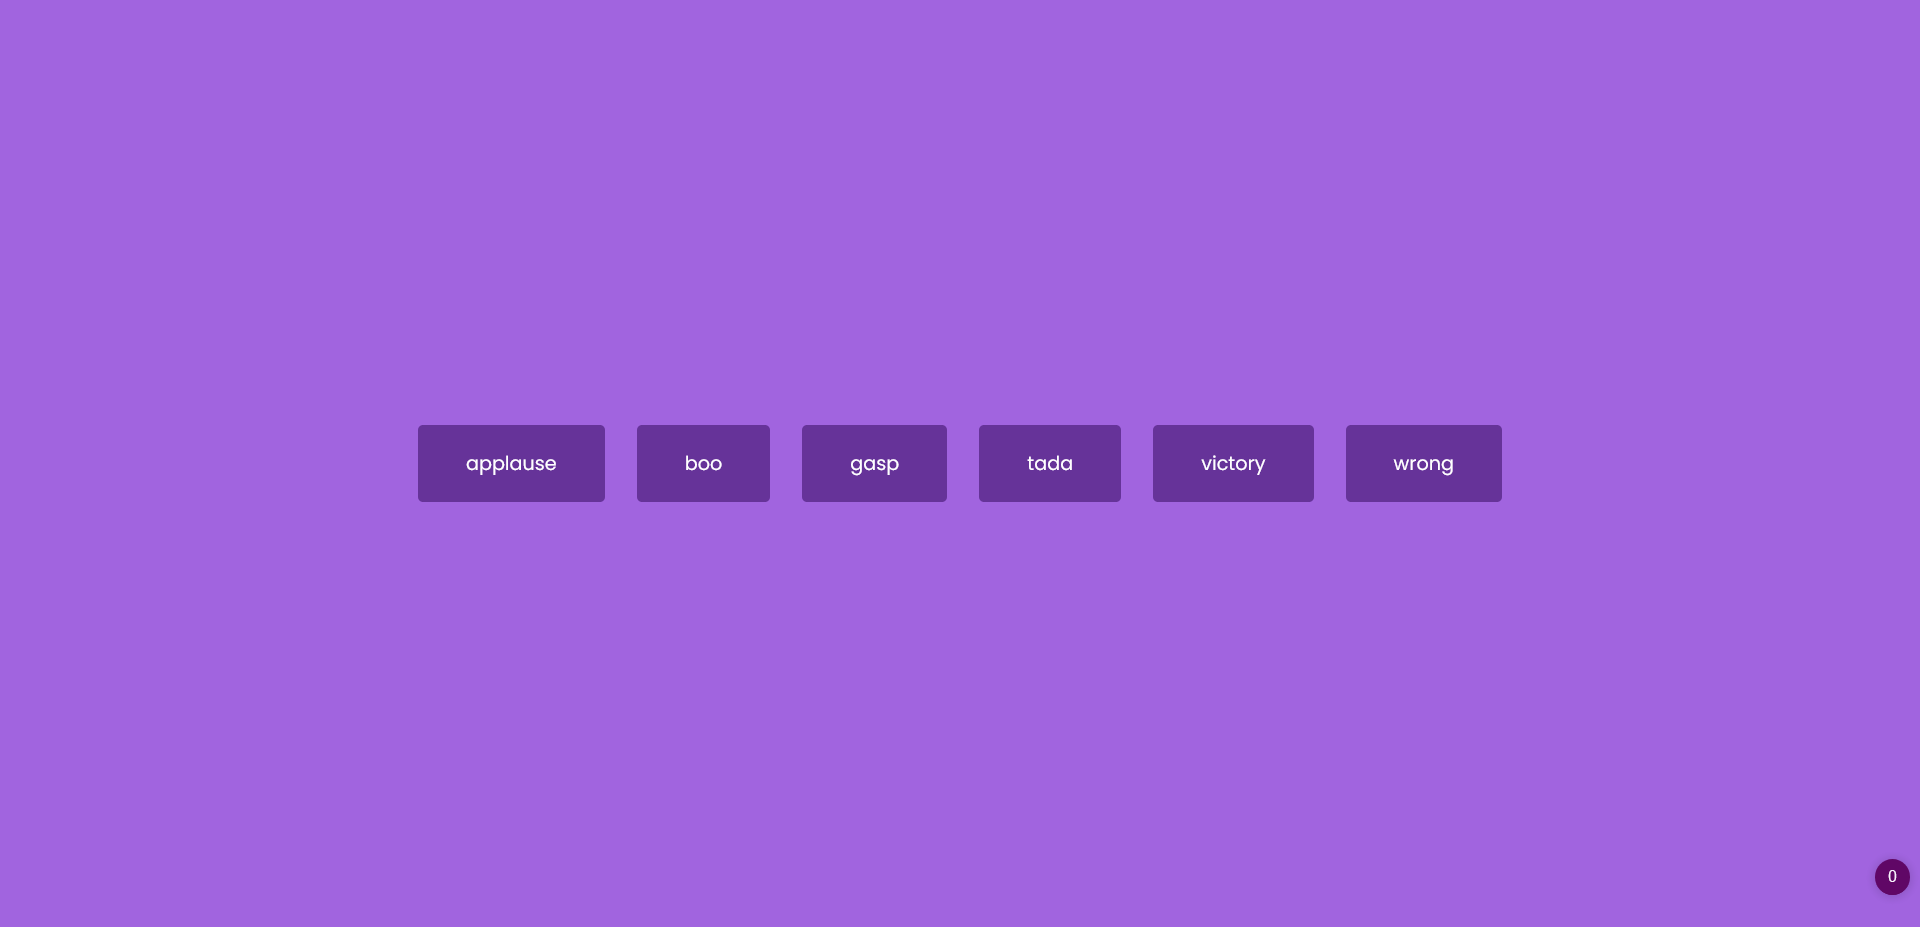
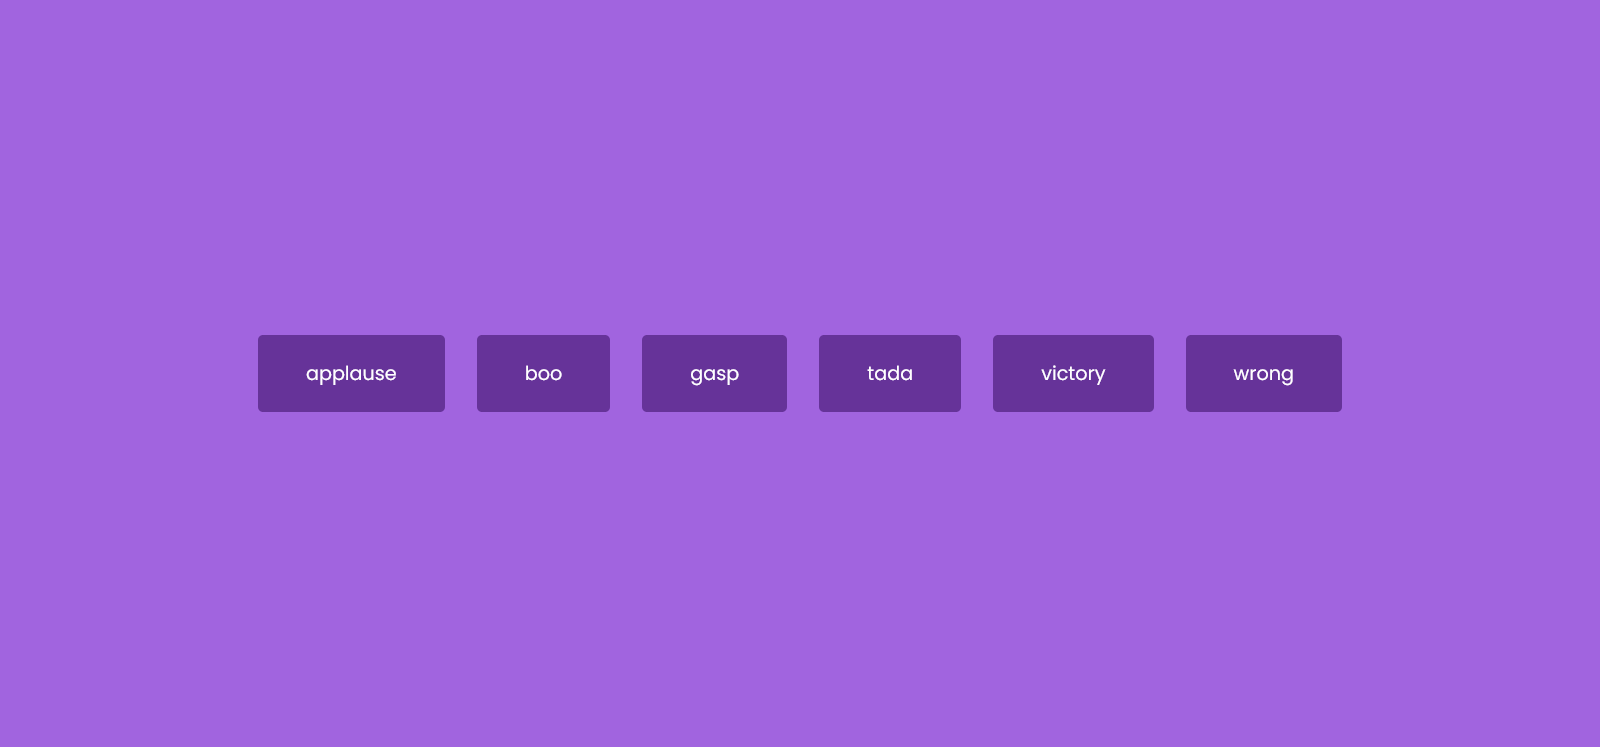
Updated project page with colour scheme

Changed region(s): [[0.1562, 0.4311, 0.8438, 0.5542], [0.9688, 0.9237, 1.0, 0.9853]]

diff --git a/style.css b/style.css
@@ -1,75 +1,84 @@
-@import url('https://fonts.googleapis.com/css2?family=Roboto:wght@400;700&display=swap');
+@import url('https://fonts.googleapis.com/css2?family=Quicksand:wght@400;700&display=swap');
 
+:root {
+	--background-color: #fae4dc;
+	--primary-color: #d4b6c3;
+	--secondary-color: #f1d4d5;
+	--text-color: rgb(94, 89, 121);
+	--hover-text: rgba(255, 255, 255, 0.747);
+}
 * {
 	box-sizing: border-box;
 }
 
 body {
-	font-family: 'Roboto', sans-serif;
+	font-family: 'Quicksand', sans-serif;
 	height: 100vh;
 	margin: 0;
-	/* background: #d7dfd6; */
-	background-color: #090c9b;
+	background-color: var(--background-color);
 	text-align: center;
-	color: #fbfff1;
+	color: var(--text-color);
 }
 
 .container {
 	display: flex;
 	flex-direction: column;
+	flex-wrap: wrap;
 	align-items: center;
 	justify-content: center;
+}
+
+h1 {
+	font-weight: bold;
 }
 
 .projects {
 	display: flex;
 	flex-wrap: wrap;
-	background-color: #b4c5e4;
-	/* background-color: #4a9396; */
-	margin: auto 10%;
-	padding: 83px;
+	justify-content: center;
+	align-items: center;
+	text-align: center;
+	background-color: var(--secondary-color);
+	padding: 2rem;
+	width: 80vw;
+	border-radius: 5px;
 }
 
 .project {
+	width: 250px;
 	display: flex;
 	flex-direction: column;
 	align-items: center;
 	justify-content: center;
 	margin: 10px;
-	border: 5px solid #3066be;
+	border: 5px solid var(--primary-color);
 	border-radius: 10px;
-	padding: 15px;
-	background-color: #3066be;
-	/* background-color: #003a26; */
-	box-shadow: 0 8px 8px -4px #3066be;
+	padding: 20px;
+	background-color: var(--primary-color);
+	box-shadow: 0 8px 8px -4px var(--primary-color);
 	transition: scale 0.5s ease;
-}
-
-.project:hover {
-	transform: scale(1.1);
 }
 
 .project-links {
 	display: flex;
 	align-items: center;
 	justify-content: space-around;
-	max-width: 200px;
+	text-align: center;
+	padding: 5px 0;
 }
 
 .project a {
 	text-decoration: none;
-	color: #fbfff1;
-	/* color: #003a26; */
+	color: var(--text-color);
 	font-weight: 700;
 	margin-top: 5px;
 	font-size: 18px;
 	max-width: 90%;
+	transition: 0.5s ease-in-out;
 }
 
 .project a:hover {
-	/* color: #c7ded2; */
-	color: #3c3744;
-	transition: 0.3s ease-in-out;
+	color: var(--hover-text);
 }
 
 a.github-link {
@@ -78,6 +87,11 @@ a.github-link {
 }
 
 .project-image {
-	width: 200px;
-	height: 150px;
+	width: 100%;
+	transition: 0.5s ease-in-out;
+}
+
+.project-image.expand {
+	transform: scale(2.9);
+	border-radius: 5px;
 }

diff --git a/script.js b/script.js
@@ -1,0 +1,11 @@
+const images = document.querySelectorAll('.project-image');
+
+images.forEach((image) => {
+	image.addEventListener('click', () => {
+		if (image.classList.contains('expand')) {
+			image.classList.remove('expand');
+		} else {
+			image.classList.add('expand');
+		}
+	});
+});

diff --git a/index.html b/index.html
@@ -440,5 +440,6 @@
 				</div>
 			</div>
 		</div>
+		<script src="script.js"></script>
 	</body>
 </html>
